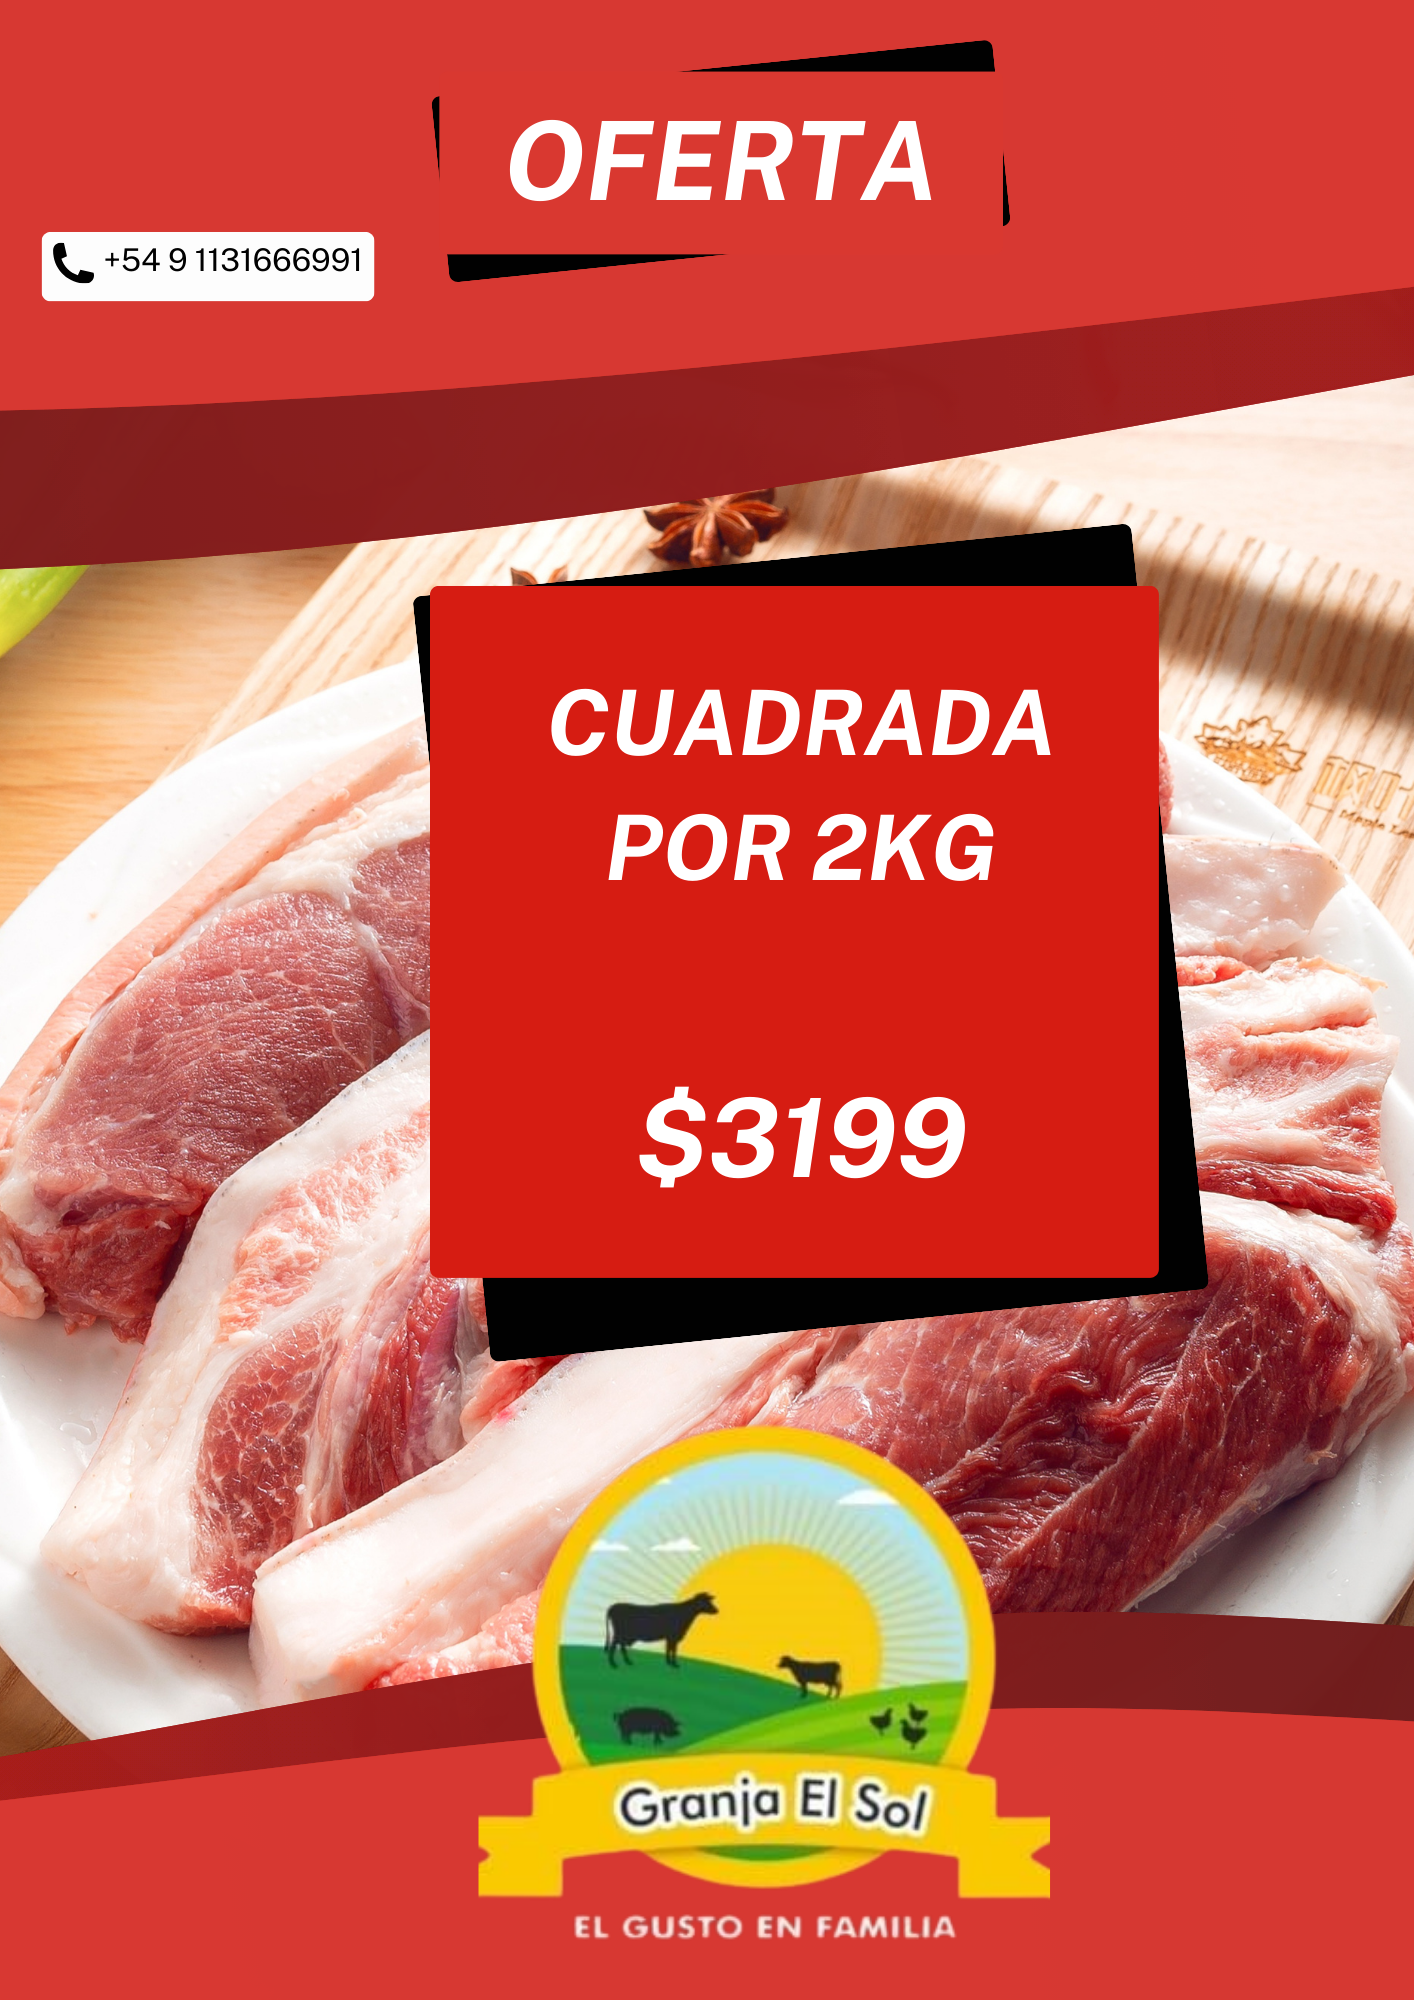
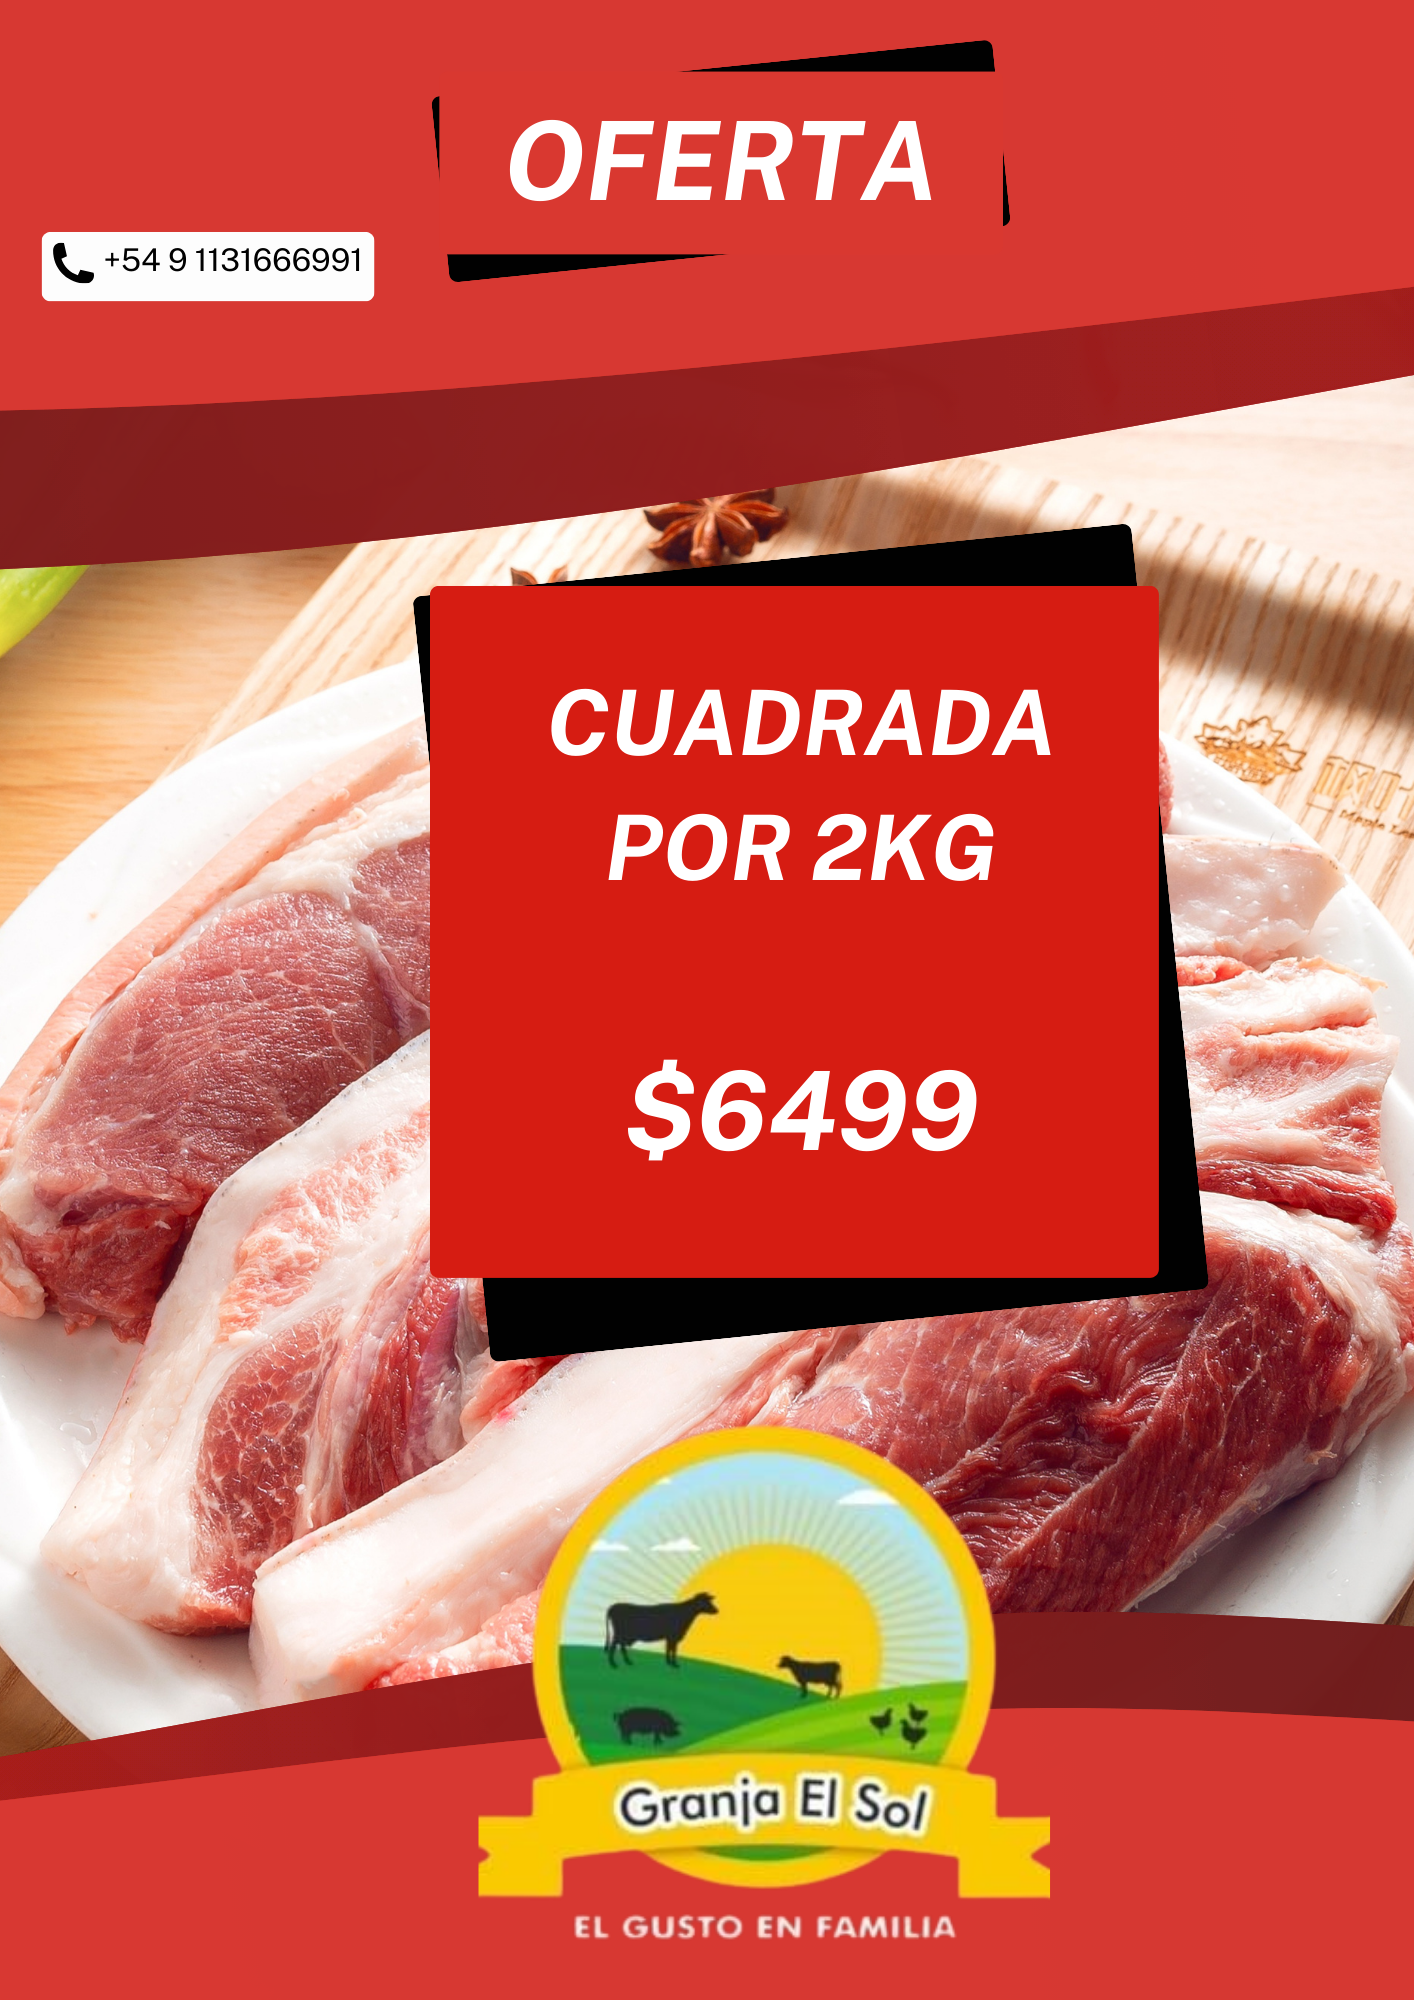
actualizando precios

Changed region(s): [[0.4356, 0.527, 0.7157, 0.589]]

diff --git a/src/Components/Productos.jsx b/src/Components/Productos.jsx
@@ -70,7 +70,7 @@ const carne = [
     id: 4,
     image: `${entraña}`,
     name: "Entraña",
-    description: "$4949",
+    description: "$4190",
   },
   {
     id: 1,
@@ -88,7 +88,7 @@ const carne = [
     id: 3,
     image: `${bifeangosto}`,
     name: "Bife angosto",
-    description: "$3089",
+    description: "$3199",
   },
   {
     id: 4,
@@ -100,25 +100,25 @@ const carne = [
     id: 5,
     image: `${palomita}`,
     name: "Palomita",
-    description: "$3565",
+    description: "$3290",
   },
   {
     id: 6,
     image: `${roastbeff}`,
     name: "Roastbeff",
-    description: "$3269",
+    description: "$3190",
   },
   {
     id: 7,
     image: `${tapadeasado}`,
     name: "Tapa de asado",
-    description: "$3289",
+    description: "$3190",
   },
   {
     id: 8,
     image: `${tapadenalga}`,
     name: "Tapa de nalga",
-    description: "$3569",
+    description: "$3289",
   },
   {
     id: 9,
@@ -130,25 +130,25 @@ const carne = [
     id: 10,
     image: `${paleta}`,
     name: "Paleta",
-    description: "$3269",
+    description: "$3190",
   },
   {
     id: 11,
     image: `${peceto}`,
     name: "Peceto",
-    description: "$4539",
+    description: "$4199",
   },
   {
     id: 12,
     image: `${ojodebife}`,
     name: "Ojo de bife",
-    description: "$5290",
+    description: "$4990",
   },
   {
     id: 13,
     image: `${picaña}`,
     name: "Picaña",
-    description: "$4699",
+    description: "$3759",
   },
 
   {
@@ -161,13 +161,13 @@ const carne = [
     id: 15,
     image: `${cuadrada}`,
     name: "Cuadrada",
-    description: "$3789",
+    description: "$3499",
   },
   {
     id: 16,
     image: `${cuadril}`,
     name: "Cuadril",
-    description: "$3789",
+    description: "$3499",
   },
   {
     id: 17,
@@ -179,19 +179,19 @@ const carne = [
     id: 18,
     image: `${nalga}`,
     name: "Nalga",
-    description: "$4190",
+    description: "$4990",
   },
   {
     id: 19,
     image: `${boladelomo}`,
     name: "Bola de lomo",
-    description: "$3789",
+    description: "$3499",
   },
   {
     id: 20,
     image: `${bifedechorizo}`,
     name: "Bife de chorizo",
-    description: "$5290",
+    description: "$4990",
   },
   {
     id: 21,
@@ -203,13 +203,13 @@ const carne = [
     id: 22,
     image: `${tortuguita}`,
     name: "Tortuguita",
-    description: "$3450",
+    description: "$3290",
   },
   {
     id: 23,
     image: `${faldapuchero}`,
     name: "Falda puchero",
-    description: "$2590",
+    description: "$2250",
   },
   {
     id: 24,
@@ -221,13 +221,13 @@ const carne = [
     id: 25,
     image: `${miladecarne}`,
     name: "Milanesa de carne",
-    description: "$3989",
+    description: "$3689",
   },
   {
     id: 26,
     image: `${picada}`,
     name: "Picada",
-    description: "$2589",
+    description: "$2490",
   }
 ];
 
@@ -236,19 +236,19 @@ const cerdo = [
     id: 1,
     image: `${bondiola}`,
     name: "Bondiola",
-    description: "$2489",
+    description: "$3499",
   },
   {
     id: 2,
     image: `${carre}`,
     name: "Carre",
-    description: "$2589",
+    description: "$2189",
   },
   {
     id: 3,
     image: `${churrasquito}`,
     name: "Churrasquito",
-    description: "$2396",
+    description: "$3260",
   },
   {
     id: 4,
@@ -275,7 +275,7 @@ const pollos = [
     id: 1,
     image: `${Alitas}`,
     name: "Alitas",
-    description: "$480",
+    description: "$550",
   },
   {
     id: 2,
@@ -293,7 +293,7 @@ const pollos = [
     id: 4,
     image: `${pechuga}`,
     name: "Pechuga",
-    description: "$1469",
+    description: "$1969",
   },
   {
     id: 1,
@@ -305,7 +305,7 @@ const pollos = [
     id: 2,
     image: `${suprema}`,
     name: "Suprema",
-    description: "$2489",
+    description: "$2989",
   },
 ];
 

diff --git a/src/Components/Ofertas.jsx b/src/Components/Ofertas.jsx
@@ -20,6 +20,8 @@ import ofertapaleta from "../img/ofertas/ofertapaleta.png";
 import ofertapechitodecerdo from "../img/ofertas/ofertapechitodecerdo.png";
 import ofertatapadenalga from "../img/ofertas/ofertatapadenalga.png";
 import ofertadescuento from "../img/ofertas/ofertadescuento.png";
+import ofertaroastebeef from "../img/ofertas/ofertaroastebeef.png";
+
 
 
 
@@ -68,7 +70,7 @@ function CarrouselSwip() {
                         <SwiperSlide><img className='w-100' src={ofertaosobuco} alt="" /></SwiperSlide>
                         <SwiperSlide><img className='w-100' src={ofertapaleta} alt="" /></SwiperSlide>
                         <SwiperSlide><img className='w-100' src={ofertapechitodecerdo} alt="" /></SwiperSlide>
-                        <SwiperSlide><img className='w-100' src={ofertapaleta} alt="" /></SwiperSlide>
+                        <SwiperSlide><img className='w-100' src={ofertaroastebeef} alt="" /></SwiperSlide>
                         <SwiperSlide><img className='w-100' src={ofertatapadenalga} alt="" /></SwiperSlide>
                         
                         {/* ... Agrega más diapositivas según sea necesario */}
